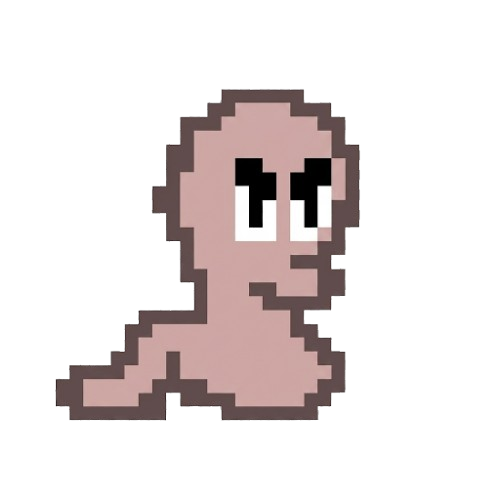
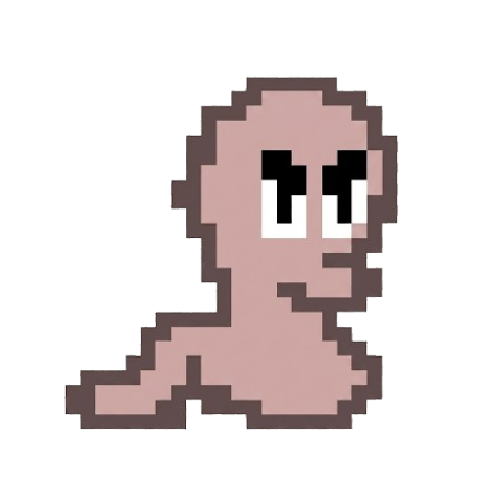
ajout sprite worm bonne taille

Changed region(s): [[0.09, 0.15, 0.81, 0.87]]

diff --git a/worms/src/main/java/fr/upc/g5e4/model/TeamInitialisation.java b/worms/src/main/java/fr/upc/g5e4/model/TeamInitialisation.java
@@ -45,7 +45,7 @@ public class TeamInitialisation {
      * @param startX position d'initialisation
      */
     public TeamInitialisation(GroundModel groundModel,World world,String teamName, int teamNumber, int startX){
-        this(groundModel, world, teamName, teamNumber, startX, "/worm.png");
+        this(groundModel, world, teamName, teamNumber, startX, "/wormPixel.png");
     }
     
     /**

diff --git a/worms/src/main/java/fr/upc/g5e4/model/GameManager.java b/worms/src/main/java/fr/upc/g5e4/model/GameManager.java
@@ -517,7 +517,7 @@ public class GameManager {
 
     // Initialiser un nombre N d'equipes
     public void createTeam(int number){
-        createTeam(number, "/worm.png"); // Utilise le skin par défaut
+        createTeam(number, "/wormPixel.png"); // Utilise le skin par défaut
     }
     
     // Initialiser un nombre N d'equipes avec un skin spécifique
